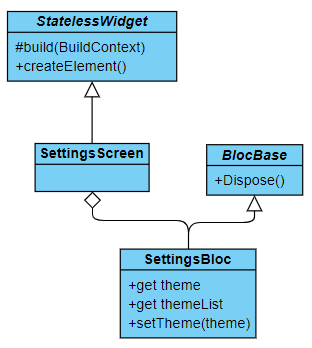
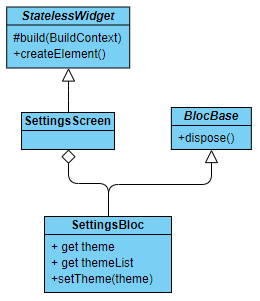
Added documentation for settingsscreen (#75)

diff --git a/file_documentation/weekplanner/screens/settings_screen.md b/file_documentation/weekplanner/screens/settings_screen.md
@@ -1,0 +1,29 @@
+# SettingsScreen
+This file documents the SettingsScreen class.
+
+## Functionality
+The SettingsScreen is work in progress. At the moment, there is not much interesting functionality to report.
+
+## Layout
+This is the layout of the screen.<br>
+![layout of the screen](../pictures/SettingsScreen.png)
+
+For now, this is only a skeleton of what the settings screen will be one day. So far, there are six drop down menus that do nothing. The first one is for choosing a theme for the app. There are a few choices to choose from, but they have not been implemented.
+The second one is for the colors of the week plans. Right now, the weekdays have a color based on an international standard, but that can be changed here.
+The third one is for the mark for completing an activity. If the user does not like the tick mark that is used by default, they can change it here.
+There is a hidden fourth menu if the user scrolls down when the curser is amongst the top three menus.<br>
+![layout of the screen](../pictures/SettingsScreen2.png)<br>
+This fourth menu is for grey scale settings. Some of the citizens cannot cope with overstimulation, which is why this setting is here.
+The fifth menu and sixth menus do not have a purpose yet.
+None of these menus actually change anything, so they are all useless.
+
+## Buttons
+Pressing the drop down menu headlines makes the drop down menus drop down. This reveals the different choices that the user of the screen can use, but pressing them does not do anything. One exception is the first menu, which sets a field in the settings screen class, but it is not used anywhere.
+
+Pressing the settings button in the top opens another settings screen. Users can open infinitely many settings screens this way, and they will have to close all of them individually with the back button, or log out.
+## Code
+The settings screen class has a few methods for building the UI for the screen, and that is pretty much it.
+
+## Structure
+This is the class diagram for the settings screen. <br>
+![class diagram](../pictures/SettingScreenDiagram.png)
